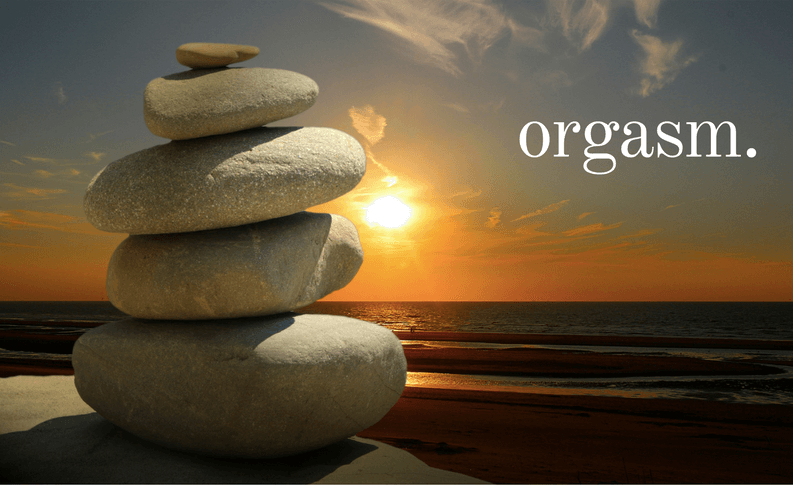
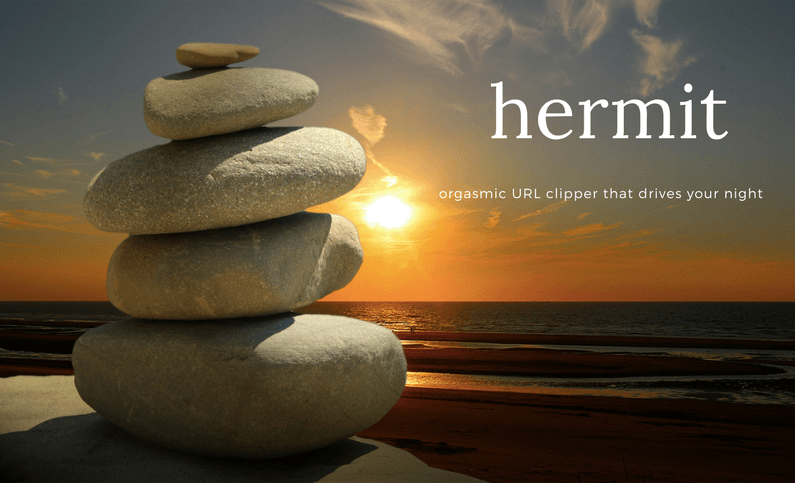
v1 change repo name

diff --git a/main.go b/main.go
@@ -37,7 +37,7 @@ import (
 )
 
 var db *sql.DB
-var repoName = "creaaa/orgasm"
+var repoName = "creaaa/hermit"
 
 func init() {
 

diff --git a/README.md b/README.md
@@ -1,18 +1,18 @@
 
-# Orgasm
+# hermit
 
 [![Platform](http://img.shields.io/badge/platform-macos-blue.svg?style=flat)](https://www.apple.com/macos/how-to-upgrade/)
 [![Language](http://img.shields.io/badge/language-go-brightgreen.svg?style=flat)](https://golang.org/)
 
-## Zen Mode Bookmark List That Drives Your Night
+## Orgasmic URL Clipper That Drives Your Night
 
 <div align="center">
-<img src="https://github.com/creaaa/orgasm/blob/master/image.png">
+<img src="https://github.com/creaaa/hermit/blob/master/image.png">
 </div>
 
 ### Caution
 
-Orgasm assumes that you set `$GOPATH` in `~/go` as the first path.
+Hermit assumes that you set `$GOPATH` in `~/go` as the first path.
 If not, this does not work. This situation will be improved soon.
 Sorry for the inconvenience. thanks.
 
@@ -28,25 +28,25 @@ $ go get github.com/creaaa/orgasm
 
 ```
 # add URL (make sure enclose URL in double quote if it includes `?`)
-$ orgasm add <"URL"> <alias> [description]
+$ hermit add <"URL"> <alias> [description]
 
 # open URL
-$ orgasm open <ID or alias>... # can designate multiple values by spacing
+$ hermit open <ID or alias>... # can designate multiple values by spacing
 
 # shows list of URLs
-$ orgasm list
+$ hermit list
 
 # fetch whether URL returns 404, then update database
-$ orgasm fetch
+$ hermit fetch
 
 # delete URL
-$ orgasm delete <ID or alias>
+$ hermit delete <ID or alias>
 
 # delete only URL that is already 404 (need `orgasm fetch` in advance)
-$ orgasm delete -f
+$ hermit delete -f
 
 # delete all URLs
-$ orgasm deleteall
+$ hermit deleteall
 ```
 
 ### Environment
